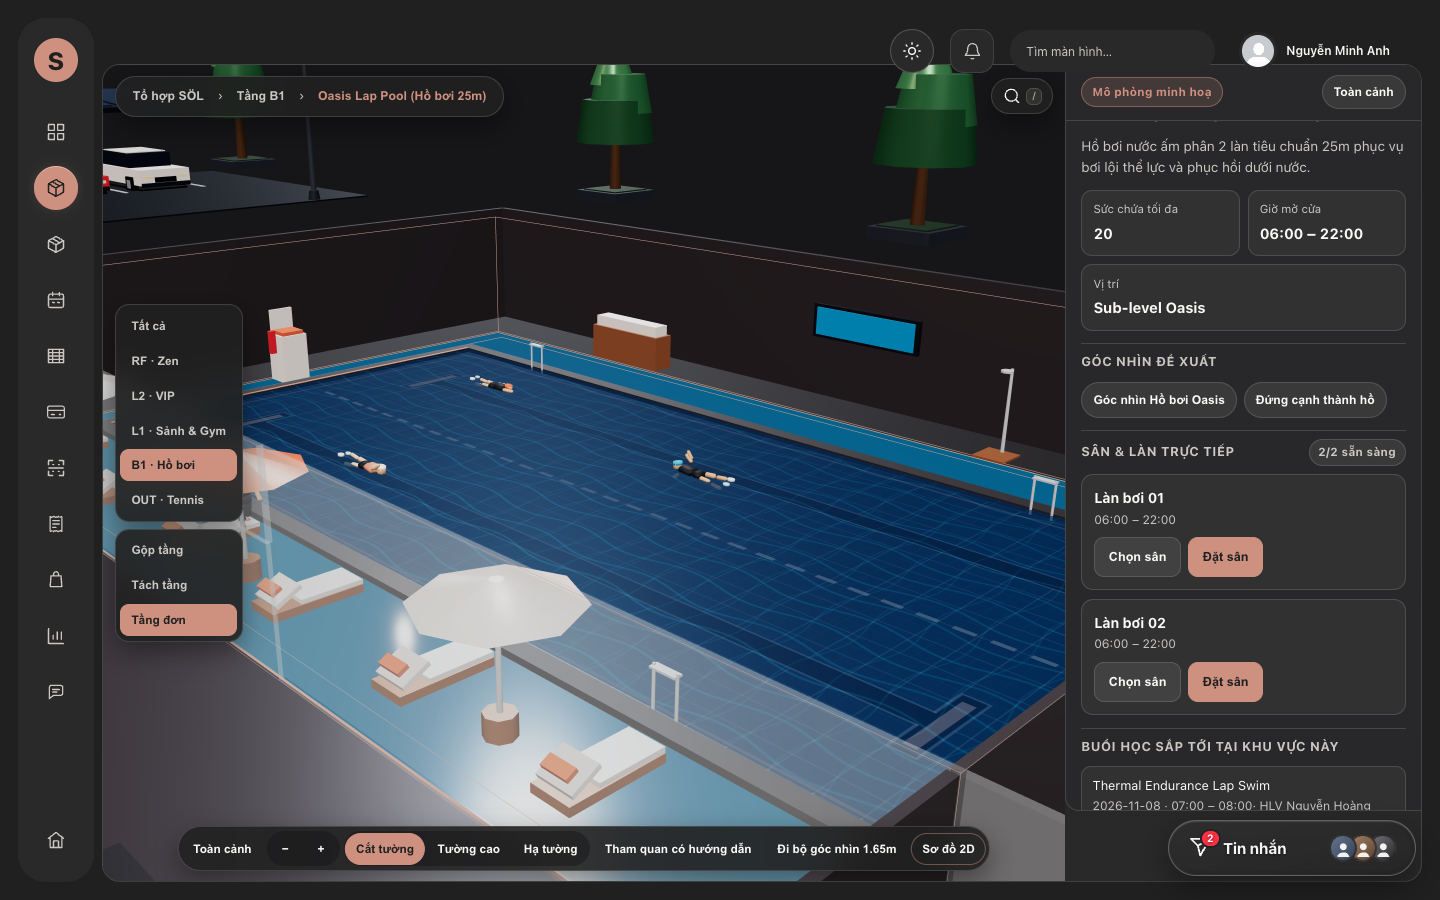
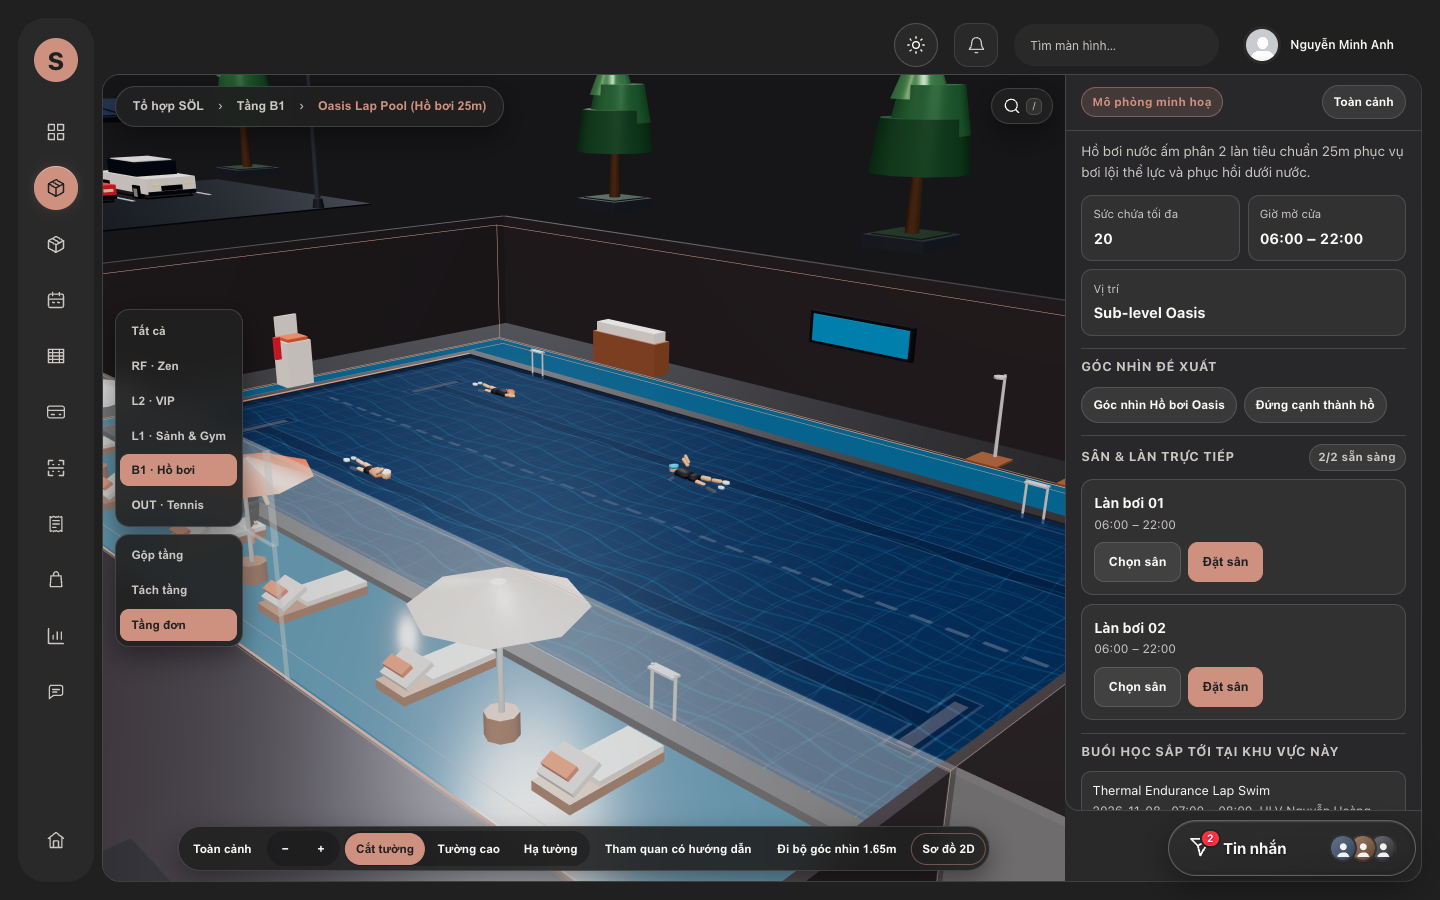
fix(explore3d): prevent portal topbar from overlapping explore3d shell top border

diff --git a/apps/web/src/features/explore3d/explore3d.css b/apps/web/src/features/explore3d/explore3d.css
@@ -31,6 +31,10 @@ body:has(.explore3d-page),
   overflow: hidden;
 }
 
+.portal-v2.app-shell:has(.explore3d-page) .app-topbar {
+  padding: 4px 20px 0;
+}
+
 .portal-v2.app-shell:has(.explore3d-page) .portal-workspace-footer {
   display: none;
 }
@@ -61,9 +65,9 @@ body:has(.explore3d-page),
   display: grid;
   grid-template-columns: minmax(0, 1fr) 356px;
   width: 100%;
-  margin-top: 46px;
-  height: calc(100dvh - 82px);
-  max-height: calc(100dvh - 82px);
+  margin-top: 56px;
+  height: calc(100dvh - 92px);
+  max-height: calc(100dvh - 92px);
   min-height: 0;
   background: linear-gradient(180deg, #202020 0%, #292929 100%);
   color: var(--explore-ink);

diff --git a/docs/qa/explore3d-perf.md b/docs/qa/explore3d-perf.md
@@ -9,7 +9,7 @@
 | Chỉ số | Kết quả đo | Ngưỡng mục tiêu | Đạt |
 | :--- | :---: | :---: | :---: |
 | **p50 Frame Time** | `16.7 ms` | `<= 16.7 ms` | PASS |
-| **p95 Frame Time** | `17.6 ms` | `<= 25.0 ms` | PASS |
+| **p95 Frame Time** | `17.5 ms` | `<= 25.0 ms` | PASS |
 | **FPS trung bình (khi chuyển động)** | `58 FPS` | `>= 45 FPS` | PASS |
 | **Draw Calls tối đa (`gl.info.render.calls`)** | `116` | `<= 120` | PASS |
 | **Triangles tối đa (`gl.info.render.triangles`)** | `71,688` | `<= 120,000` | PASS |
